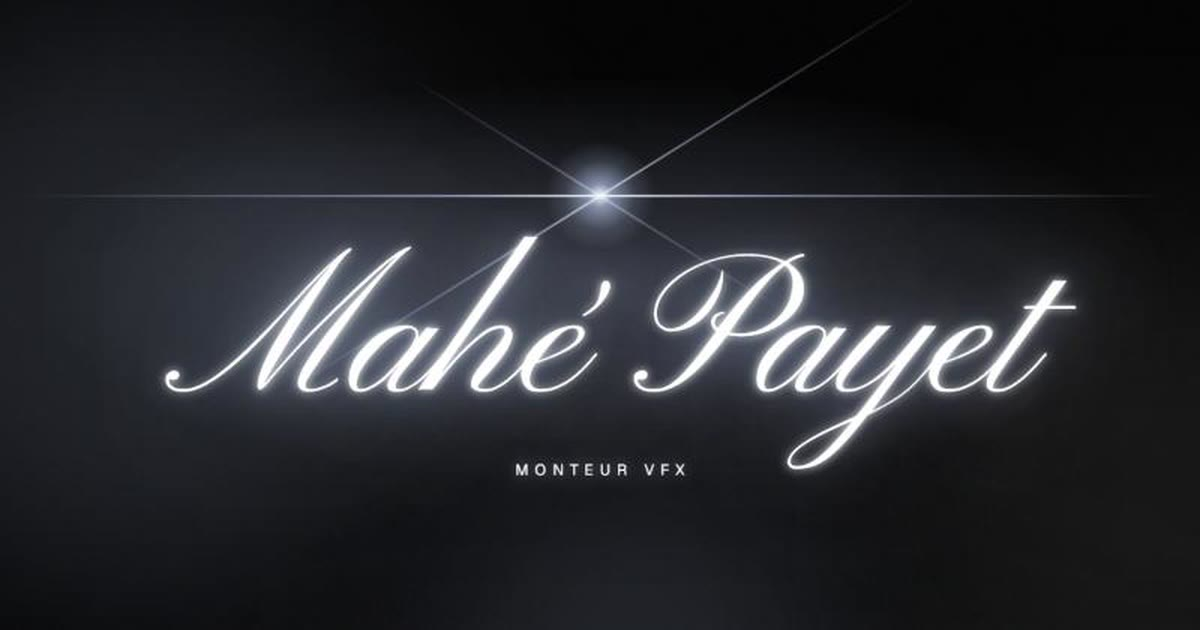
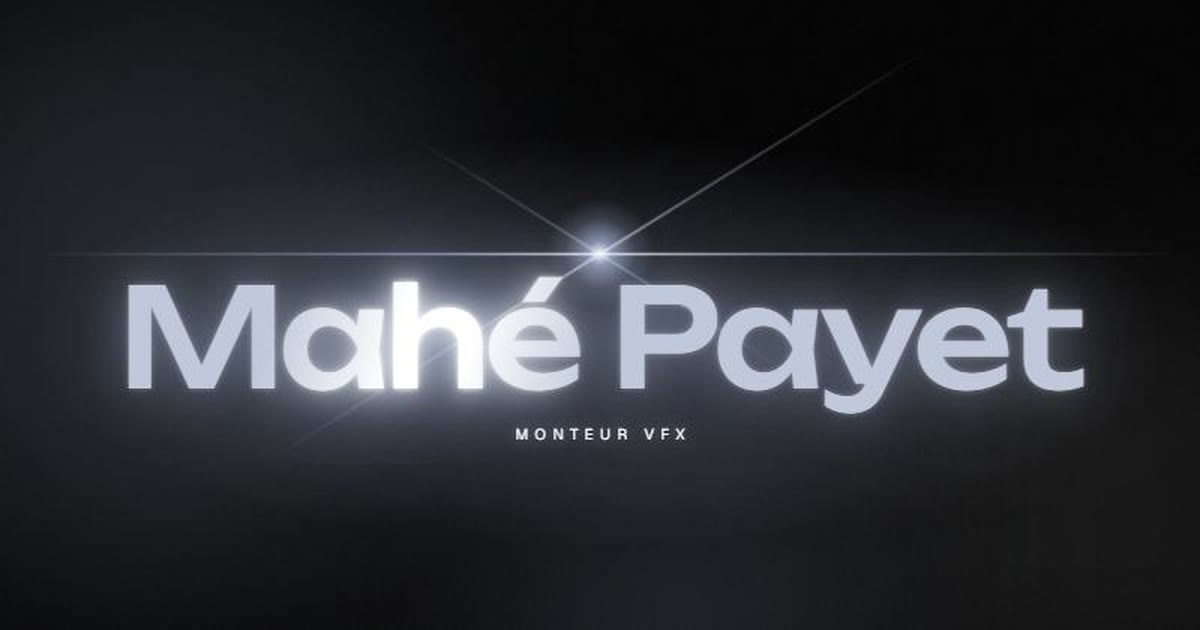
Renforce le reflet des titres et refait l'image d'aperçu
Bande de lumière plus nette sur le nom et les titres ; apercu.jpg
reprend la nouvelle police.

Claude-Session: https://claude.ai/code/session_01QmosuDo6KC4YxhWH43w6mh

diff --git a/index.html b/index.html
@@ -38,8 +38,8 @@
   --titre:"Unbounded","Geist","Helvetica Neue",Arial,sans-serif;
   --sans:"Geist","Helvetica Neue",Arial,sans-serif;
 
-  --halo-titre:0 0 .05em rgb(255 255 255 / .5),0 0 .32em rgb(var(--l) / .45),0 0 1em rgb(var(--l) / .26);
-  --acier:#d3daea;                     /* teinte du nom et des titres, juste sous le blanc pour que le reflet se voie */
+  --halo-titre:0 0 .05em rgb(255 255 255 / .35),0 0 .32em rgb(var(--l) / .4),0 0 1em rgb(var(--l) / .24);
+  --acier:#bfc7da;                     /* teinte du nom et des titres, juste sous le blanc pour que le reflet se voie */
   --halo:0 0 .05em rgb(255 255 255 / .95),0 0 .22em rgb(var(--l) / .7),0 0 .7em rgb(var(--l) / .42),0 0 1.8em rgb(var(--l) / .24);
   --marge:clamp(16px,4.5vw,64px);
   --dock:58px;
@@ -237,9 +237,9 @@ main{position:relative;z-index:1}
 .brille::after{
   content:attr(data-texte);content:attr(data-texte) / "";
   position:absolute;inset:-.4em;padding:.4em;pointer-events:none;
-  color:var(--blanc);text-shadow:0 0 .08em #fff,0 0 .3em rgb(var(--l) / .9);
-  -webkit-mask:linear-gradient(105deg,transparent 41%,#000 50%,transparent 59%) 100% 0 / 300% 100% no-repeat;
-          mask:linear-gradient(105deg,transparent 41%,#000 50%,transparent 59%) 100% 0 / 300% 100% no-repeat;
+  color:var(--blanc);text-shadow:0 0 .05em #fff,0 0 .22em #fff,0 0 .6em rgb(var(--l) / .95);
+  -webkit-mask:linear-gradient(105deg,transparent 45.5%,#000 49%,#000 51%,transparent 54.5%) 100% 0 / 300% 100% no-repeat;
+          mask:linear-gradient(105deg,transparent 45.5%,#000 49%,#000 51%,transparent 54.5%) 100% 0 / 300% 100% no-repeat;
   animation:reflet 6s cubic-bezier(.45,0,.2,1) infinite;
 }
 .nom.brille::after{animation-delay:1.9s}
